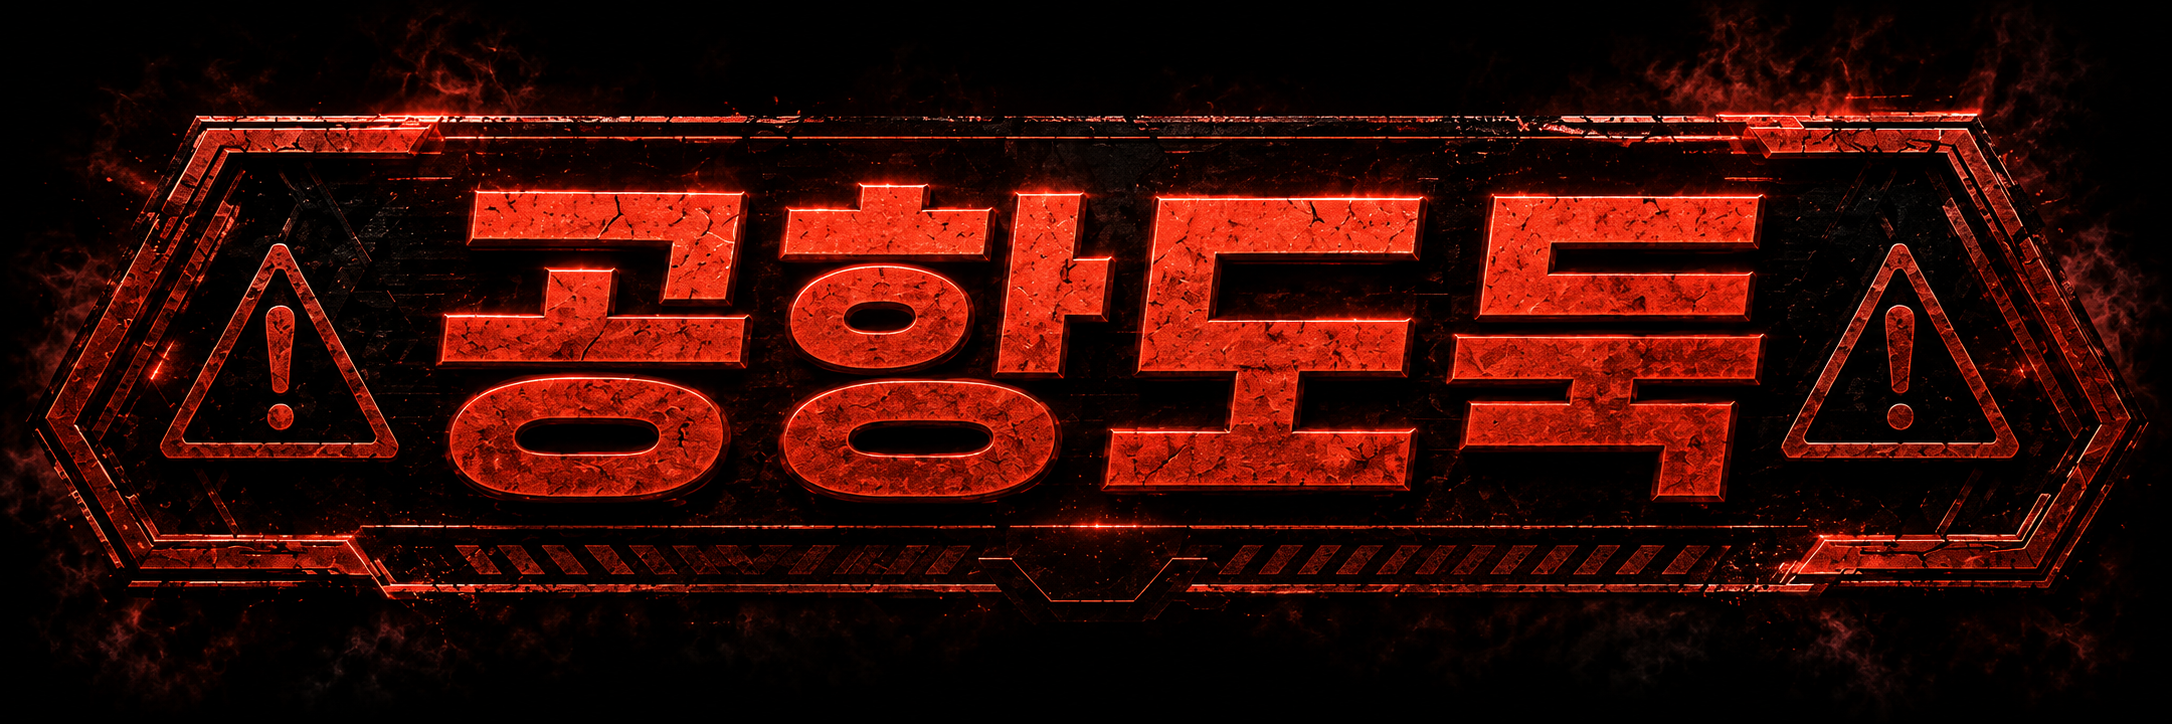
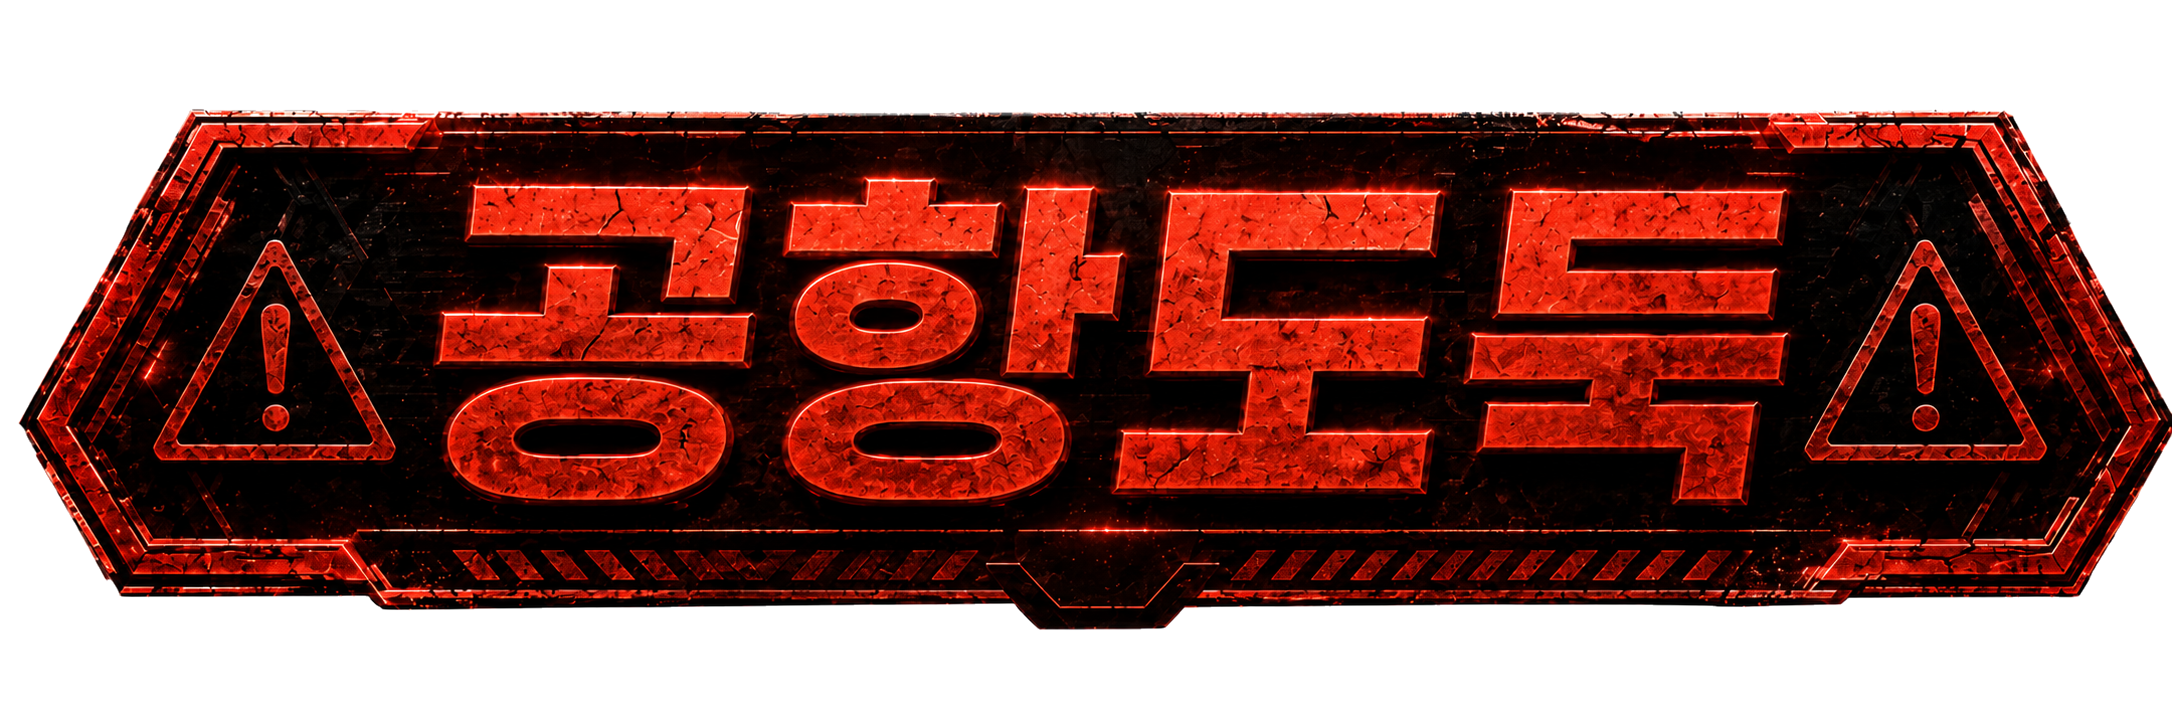
Replace warning text art assets

diff --git a/src/styles.css b/src/styles.css
@@ -195,7 +195,7 @@ button {
   top: 50%;
   width: 92%;
   aspect-ratio: 1600 / 340;
-  background: url("/assets/ui/text-gpt2-style/training-hint-tmoney-buy.png?v=20260707c") center / contain no-repeat;
+  background: url("/assets/ui/text-gpt2-style/training-hint-tmoney-buy-cutout.png?v=20260707e") center / contain no-repeat;
   filter: drop-shadow(0 0 18px rgba(0, 222, 255, 0.48));
   text-indent: -9999px;
   overflow: hidden;
@@ -205,23 +205,23 @@ button {
 
 .training-hint i {
   position: absolute;
-  top: max(118px, calc(env(safe-area-inset-top) + 118px));
-  right: 86px;
-  width: min(43%, 168px);
+  top: max(94px, calc(env(safe-area-inset-top) + 94px));
+  right: 84px;
+  width: min(45%, 176px);
   aspect-ratio: 1;
-  background: url("/assets/ui/training-hint-arrow-cutout.png?v=20260707b") center / contain no-repeat;
+  background: url("/assets/ui/training-hint-arrow-cutout.png?v=20260707d") center / contain no-repeat;
   filter: drop-shadow(0 0 16px rgba(162, 109, 255, 0.7));
-  transform-origin: 82% 18%;
-  animation: trainingHintArrow 680ms ease-in-out infinite alternate;
+  transform-origin: 92% 8%;
+  animation: trainingHintArrow 760ms ease-in-out infinite alternate;
 }
 
 @keyframes trainingHintArrow {
   from {
-    transform: translate(-6px, 6px) scale(0.96);
+    transform: translate(-5px, 5px) scale(0.97);
   }
 
   to {
-    transform: translate(3px, -4px) scale(1.04);
+    transform: translate(2px, -2px) scale(1.03);
   }
 }
 

diff --git a/src/main.js b/src/main.js
@@ -2227,13 +2227,13 @@ function spawnBoss() {
 
 const uiTextAssets = {
   "보스출현": "/assets/ui/text-gpt2-style/boss-appear-gpt2.png?v=20260707a",
-  "보스퇴치": "/assets/ui/text-gpt2-style/boss-clear.png?v=20260707a",
-  "출근길 시위대": "/assets/ui/text-gpt2-style/commute-protest.png?v=20260707c",
-  "칭찬남": "/assets/ui/text-gpt2-style/boss-praise.png?v=20260707c",
-  "공항도둑": "/assets/ui/text-gpt2-style/boss-airport.png?v=20260707c",
-  "자르반 84세": "/assets/ui/text-gpt2-style/boss-jarvan.png?v=20260707c",
-  "풍선껌녀": "/assets/ui/text-gpt2-style/boss-bubblegum.png?v=20260707c",
-  "단소살인마": "/assets/ui/text-gpt2-style/boss-danso.png?v=20260707c",
+  "보스퇴치": "/assets/ui/text-gpt2-style/boss-clear.png?v=20260707b",
+  "출근길 시위대": "/assets/ui/text-gpt2-style/commute-protest.png?v=20260707d",
+  "칭찬남": "/assets/ui/text-gpt2-style/boss-praise.png?v=20260707d",
+  "공항도둑": "/assets/ui/text-gpt2-style/boss-airport.png?v=20260707d",
+  "자르반 84세": "/assets/ui/text-gpt2-style/boss-jarvan.png?v=20260707d",
+  "풍선껌녀": "/assets/ui/text-gpt2-style/boss-bubblegum.png?v=20260707d",
+  "단소살인마": "/assets/ui/text-gpt2-style/boss-danso.png?v=20260707d",
 };
 
 function getUiTextImage(label) {
